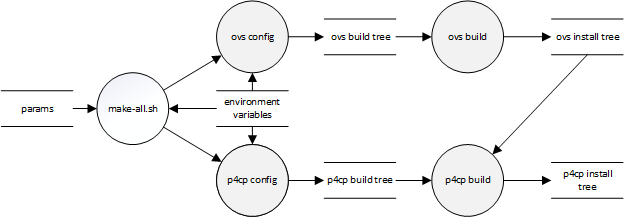
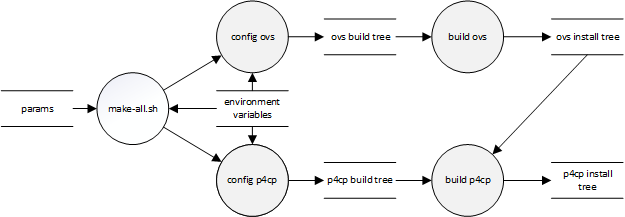
Minor updates to make-all.sh user guide (#19)
- Edited flow diagram
- Added `--lnw_version` parameter

diff --git a/docs/scripts/make-all.rst b/docs/scripts/make-all.rst
@@ -21,17 +21,21 @@ Syntax
 .. code-block:: text
 
   ./make-all.sh \
-      [--help|-h]  [--dry-run|-n] \
+      [--help|-h]  \
+      [--dry-run|-n] \
       [--deps=DEPS | -D DEPS] \
       [--host=HOSTDEPS | -H HOSTDEPS] \
       [--ovs=OVS | -O OVS] \
       [--prefix=PREFIX | -P PREFIX] \
       [--sde=SDE | -S SDE] \
       [--toolchain=TOOLFILE | -T TOOLFILE ] \
-      [--coverage] [--cxx=STD] \
+      [--coverage] \
+      [--cxx=STD] \
       [--jobs=NJOBS | -j NJOBS] \
+      [--lnw-version=VERSION] \
       [--no-build] \
-      [--no-krnlmon] [--no-ovs] \
+      [--no-krnlmon] \
+      [--no-ovs] \
       [--target=dpdk|es2k|tofino] \
       [--debug|--minsize|--reldeb|--release]
 
@@ -41,11 +45,11 @@ Command-line parameters
 General
 -------
 
-``--dry-run``, ``-n``
-  Displays the parameters that will be passed to CMake, and exits.
-
 ``--help``, ``-h``
   Displays usage information and exits.
+
+``--dry-run``, ``-n``
+  Displays the parameters that will be passed to CMake, and exits.
 
 Paths
 -----
@@ -117,6 +121,13 @@ Options
   Number of build threads.
   Specifies the value of the ``-j`` CMake option.
   Defaults to 8 threads.
+
+``--lnw_version=VERSION``
+  Version of the Linux Networking P4 program to support (2, 3).
+  Affects krnlmon and ovs-p4rt.
+  Only applies to the ``ES2K`` target.
+  Sets the ``LNW_VERSION`` listfile variable.
+  Defaults to version 3.
 
 ``--no-build``
   Configures CMake but does not build the dependencies.
